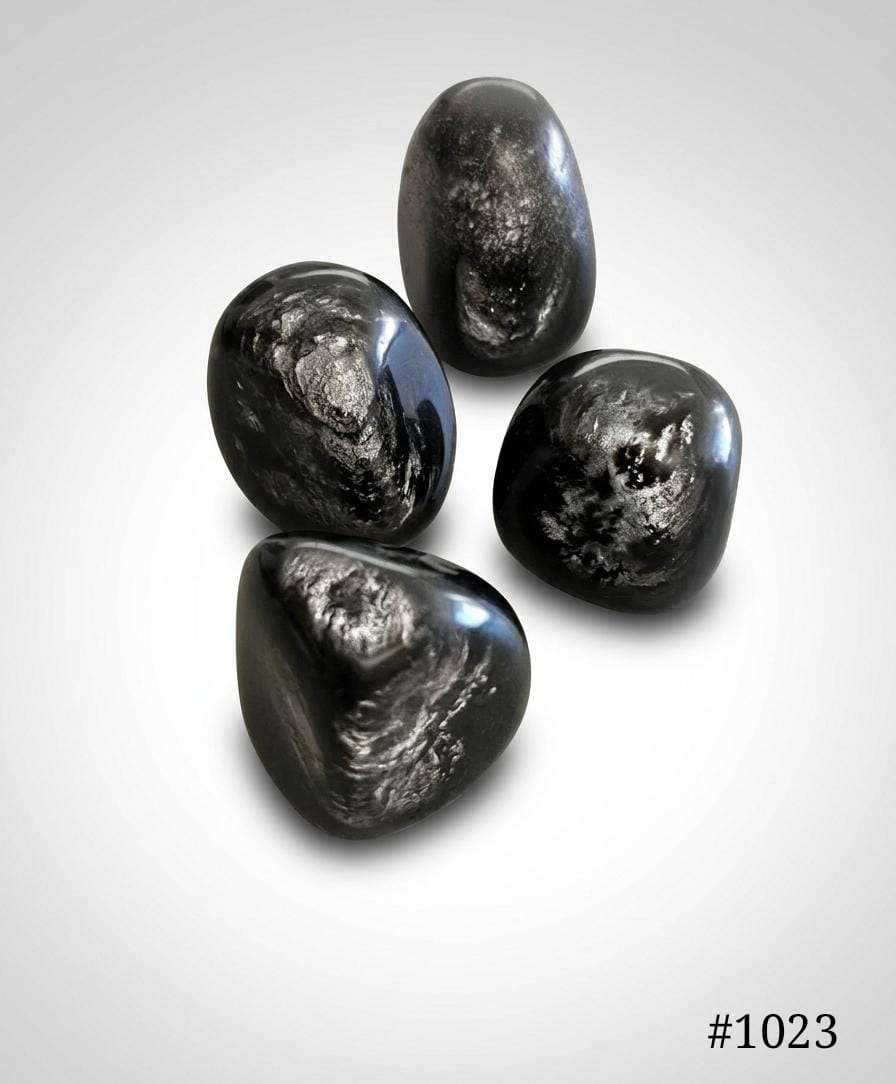
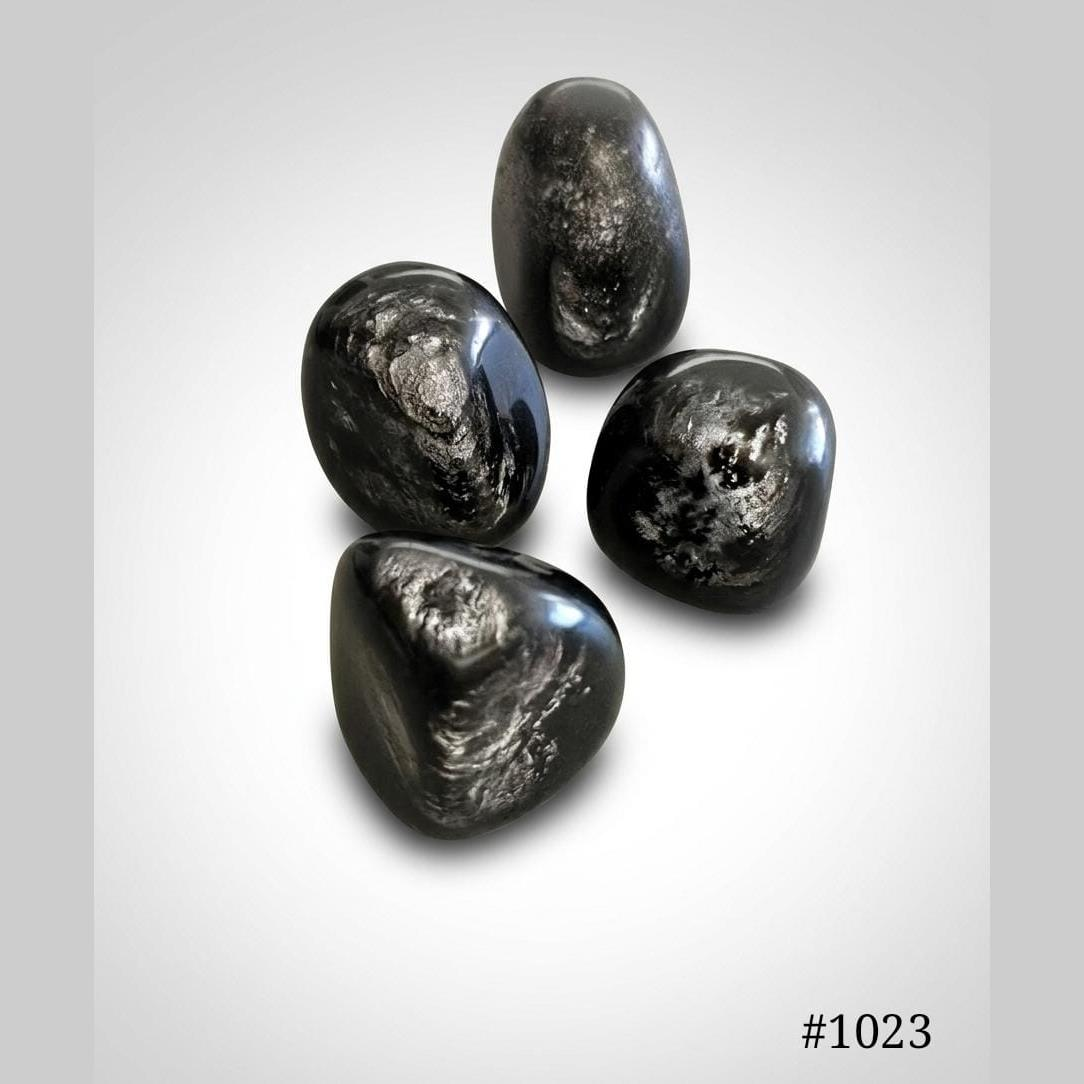
Fixing image crop issue specifically for the protection kit by padding the original image to a square, and reverting the global UI constraint change

diff --git a/src/app/(pages)/tienda/page.tsx b/src/app/(pages)/tienda/page.tsx
@@ -394,7 +394,7 @@ export default function TiendaPage() {
                           className={`flex flex-col overflow-hidden group hover:shadow-xl transition-shadow duration-300 ${group.borderColor}`}
                         >
                           <Link href={`/tienda/${product.id}`} className="flex flex-col flex-grow">
-                            <div className="p-4 relative overflow-hidden bg-muted/5 flex items-center justify-center aspect-square">
+                            <div className="p-0 relative overflow-hidden">
                               <Image
                                 src={
                                   product.image_url ||
@@ -405,7 +405,7 @@ export default function TiendaPage() {
                                 data-ai-hint={image?.imageHint}
                                 width={500}
                                 height={500}
-                                className="object-contain w-full h-full group-hover:scale-110 transition-transform duration-500"
+                                className="object-cover aspect-square group-hover:scale-105 transition-transform duration-500"
                               />
                             </div>
                             <CardContent className="p-4 flex flex-col flex-grow text-foreground/80">
